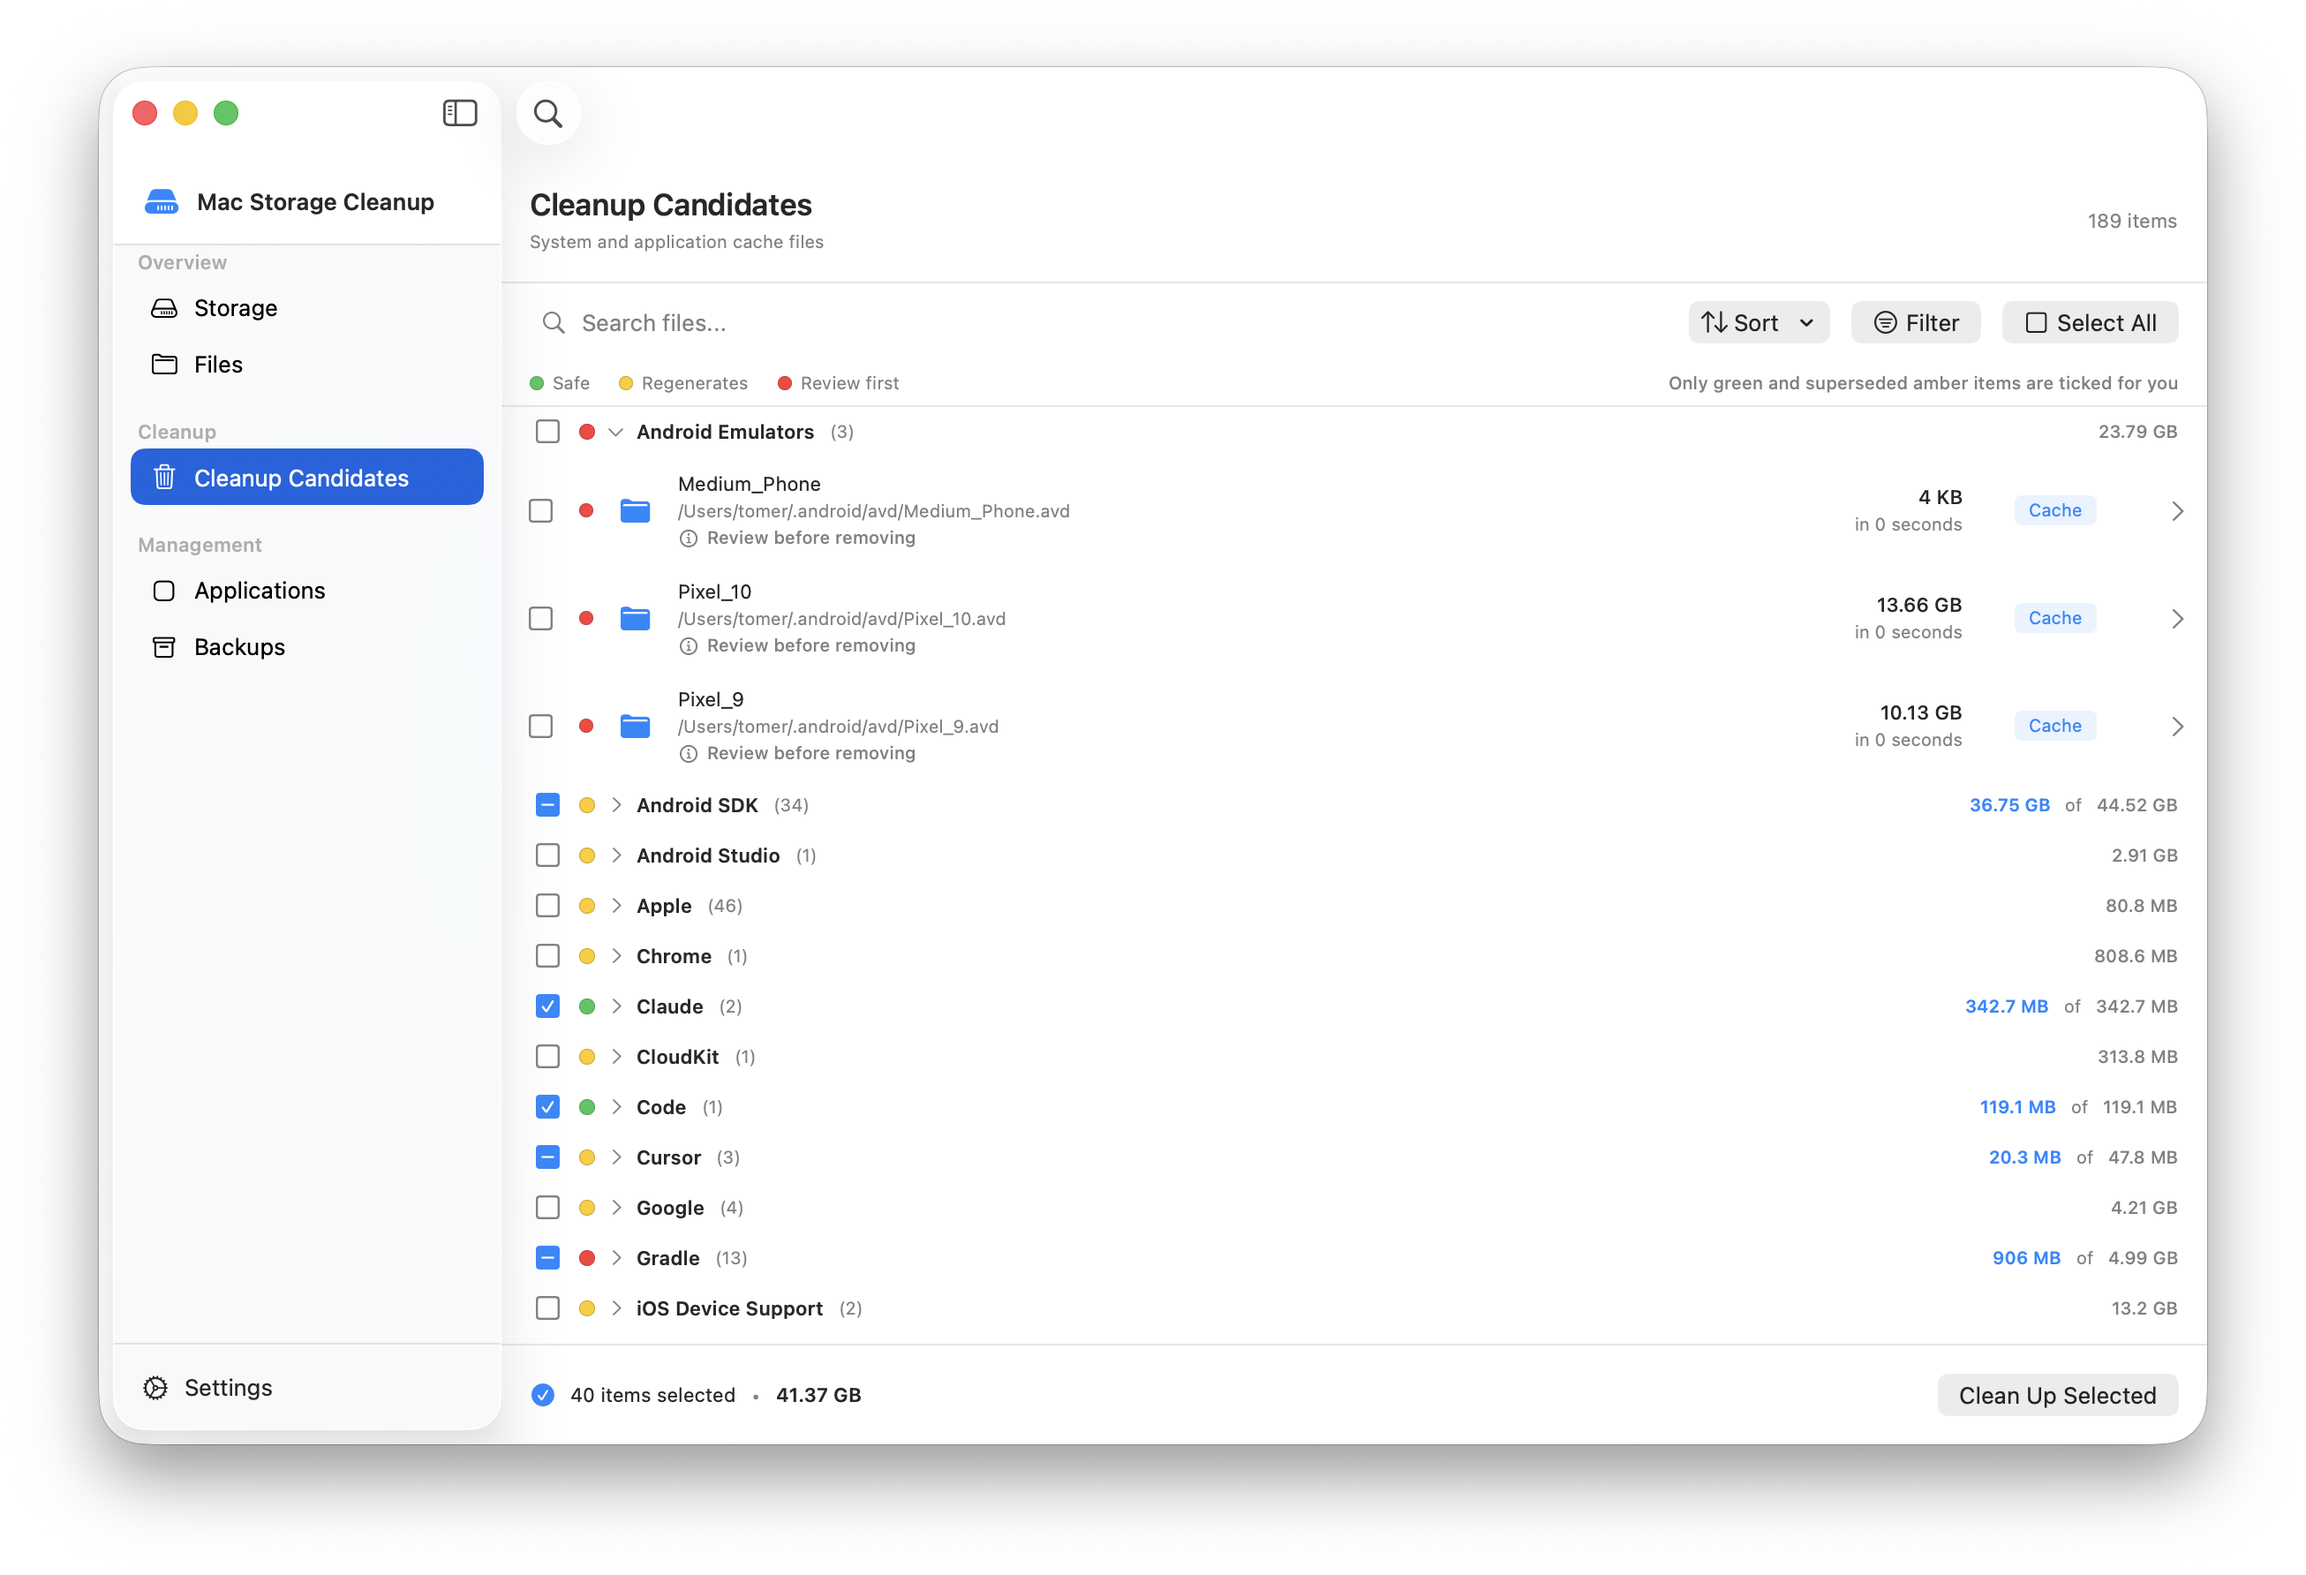
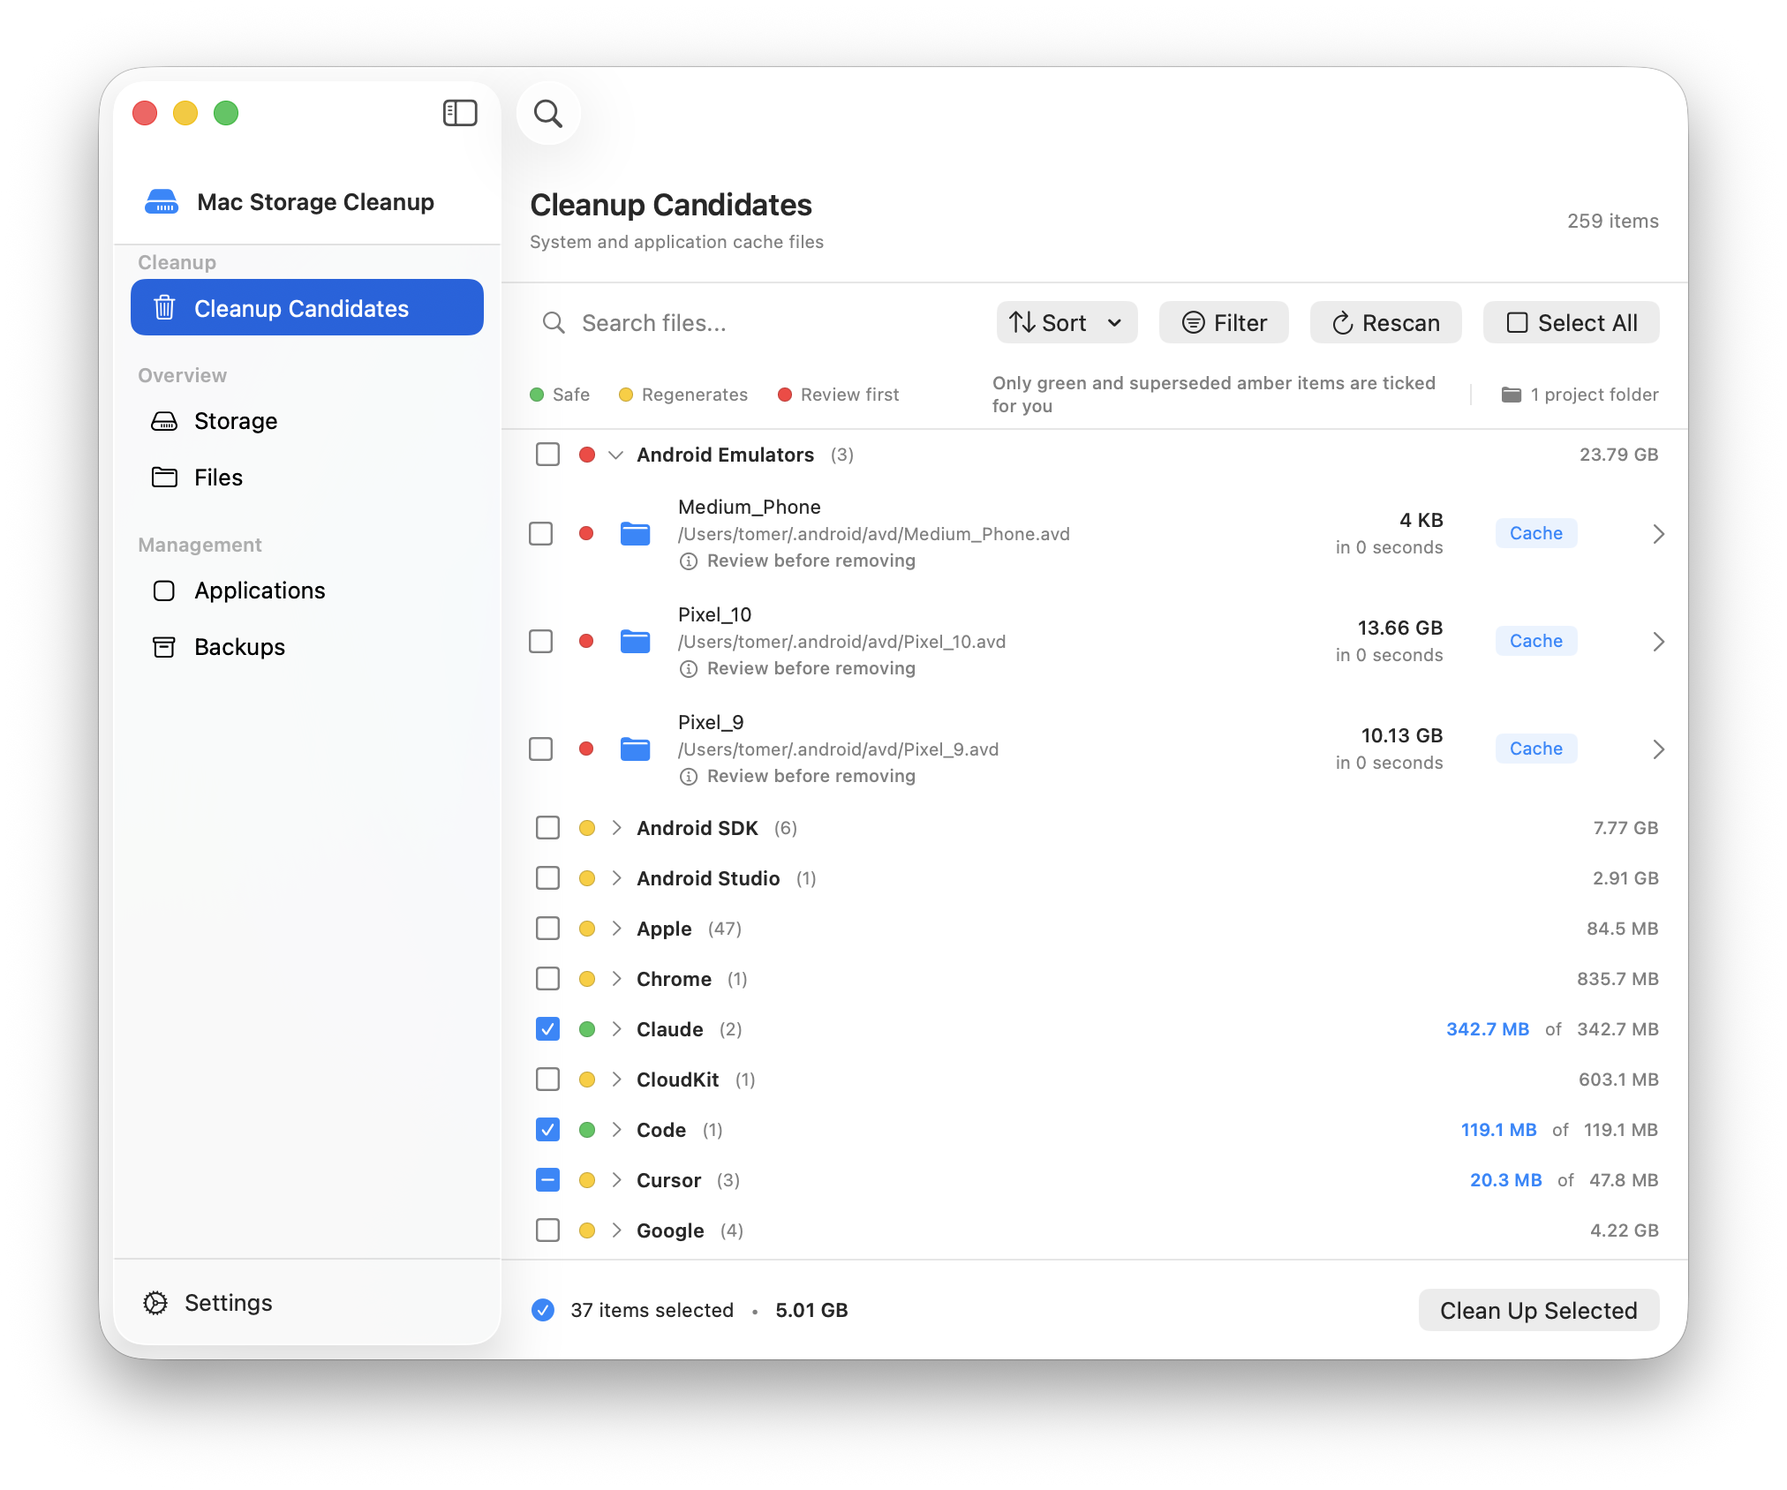
Release 1.5.0: refresh screenshots, name the copyright holder
The licence notice named the software rather than a person:

    Copyright (c) 2026, Mac Storage Cleanup

A copyright holder has to be an identifiable legal person or entity, so the
notice as written had nobody holding the right. BSD-3-Clause itself remains the
right choice — signing and notarizing change nothing about it.

Screenshots are retaken where the UI moved. `cleanup-progress.png` is removed
rather than replaced: it was captioned "Cleanup in Progress" but actually showed
a *scan* in progress, so the README has been describing the wrong thing. The new
`scanning.png` shows that honestly.

`main-window.png` is now the window as it opens, on the Cleanup page, and the
storage breakdown moves to `storage-analysis.png` under its own heading. That
one still shows the previous sidebar order and is worth retaking.

diff --git a/CHANGELOG.md b/CHANGELOG.md
@@ -5,6 +5,39 @@ All notable changes to this project will be documented in this file.
 The format is based on [Keep a Changelog](https://keepachangelog.com/en/1.0.0/),
 and this project adheres to [Semantic Versioning](https://semver.org/spec/v2.0.0.html).
 
+## [1.5.0] - 2026-09-20
+
+### Added
+- The app asks once where you keep your projects, rather than guessing at conventional
+  folder names. Folders you name are searched deeper, so a toolchain version pinned by a
+  project in an unusual location is still protected. Declining is remembered and falls
+  back to the previous guess
+- Shortcut to the project folders setting in the cleanup page, which doubles as status:
+  it reads "Guessing project folders" until answered
+- Rescan button (⌘R) in the cleanup page — sizes and pins go stale as soon as a build runs
+- Update notice: the app checks GitHub Releases once a day and shows a badge above the
+  Settings button when a newer version exists. It links to the release page and never
+  downloads or installs anything. Switchable off in Preferences › About
+
+### Changed
+- Cleanup is now the first item in the sidebar and the tab the app opens on
+- `projectArtifactScanRoots` becomes `projectFolders`, with build artifact scanning split
+  into its own switch: naming folders so the app can read version pins is a much smaller
+  ask than letting it offer that project's build output for deletion. Existing settings
+  migrate with the artifact scan still enabled
+
+### Fixed
+- The cleanup progress sheet clipped its own title and Cancel button: its content's
+  minimum height came to just over the fixed 400pt it was given
+- The preferences window's tab bar clipped against the top edge when opened from the main
+  window, because a TabView gets no inset of its own inside a sheet
+- A prerelease tag such as `1.4.0-beta.1` parsed as version 1.4.0.1 and would have been
+  offered as an upgrade over the 1.4.0 release it precedes
+
+### Note
+- Update checking is the app's only outbound network request. It sends nothing but the
+  request itself and reads a version number
+
 ## [1.4.0] - 2026-09-20
 
 ### Changed

diff --git a/README.md b/README.md
@@ -104,20 +104,27 @@ A powerful, native macOS application to clean up your Mac and free up storage sp
 
 ## 📸 Screenshots
 
+### Main Window
+Opens on Cleanup — reclaiming space is what the app is for.
+
+![Main Window](screenshots/main-window.png)
+
+### Cleanup Candidates
+Grouped by tool, with a risk indicator on every row and heading, per-group selection,
+and a shortcut to the project folders that decide which versions are protected.
+
+![Cleanup Candidates](screenshots/cleanup-candidates.png)
+
+### Scanning
+![Scanning](screenshots/scanning.png)
+
 ### Menu Bar System Monitor
 ![Menu Bar Stats](screenshots/menu-bar-stats.png)
 *Real-time system monitoring accessible from your menu bar*
 
-### Main Window - Storage Analysis
-![Storage Analysis](screenshots/main-window.png)
+### Storage Analysis
+![Storage Analysis](screenshots/storage-analysis.png)
 
-### Cleanup Candidates
-Grouped by tool, with risk dots, per-group selection and per-group totals.
-
-![Cleanup Candidates](screenshots/cleanup-candidates.png)
-
-### Cleanup in Progress
-![Cleanup Progress](screenshots/cleanup-progress.png)
 
 ## 🚀 Installation
 

diff --git a/screenshots/README.md b/screenshots/README.md
@@ -4,9 +4,10 @@ This directory contains screenshots for the Mac Storage Cleanup application.
 
 ## Current Screenshots
 
-- `main-window.png` - Main storage analysis window
 - `cleanup-candidates.png` - Cleanup candidates, grouped by tool with risk indicators
-- `cleanup-progress.png` - Cleanup in progress
+- `scanning.png` - A scan in progress
+- `main-window.png` - Main window on launch, showing the Cleanup page
+- `storage-analysis.png` - Storage breakdown with the category chart
 - `menu-bar-stats.png` - Menu bar system monitor popover
 
 ## How to Add Menu Bar Screenshot
